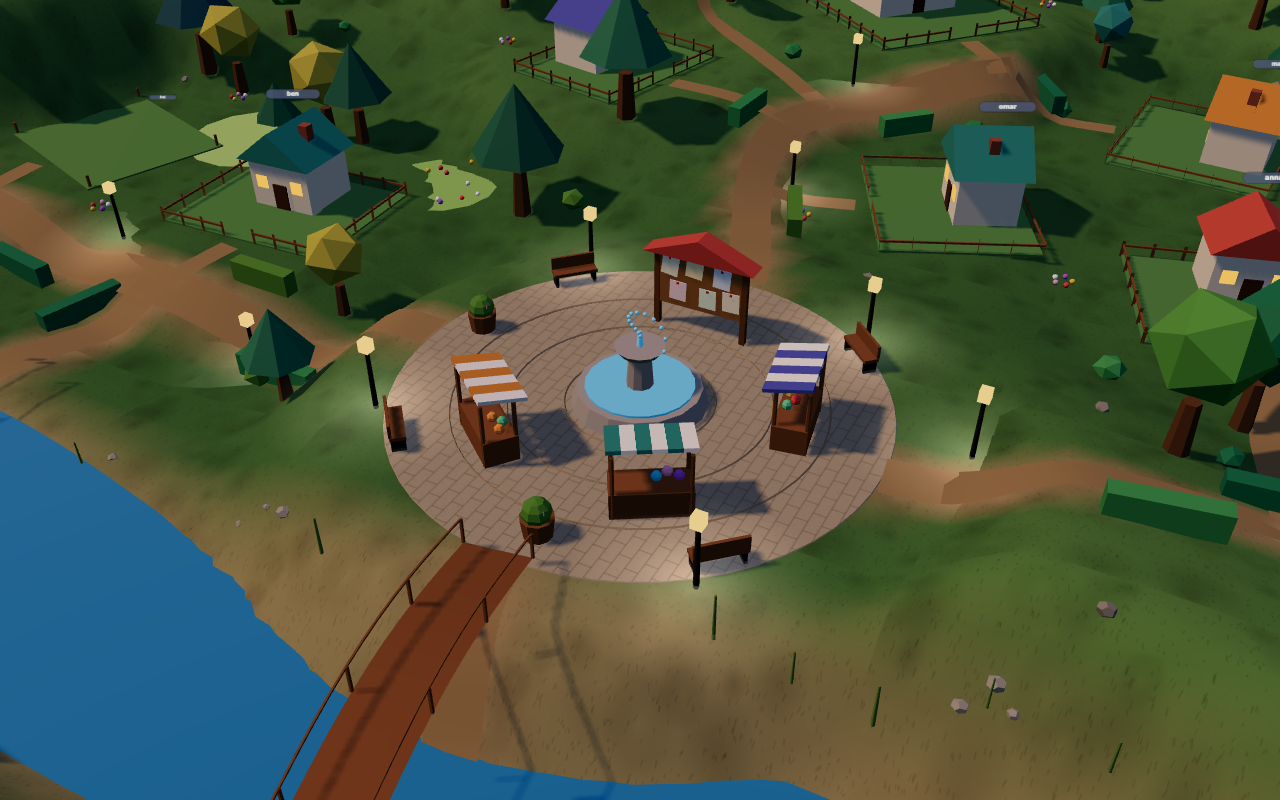
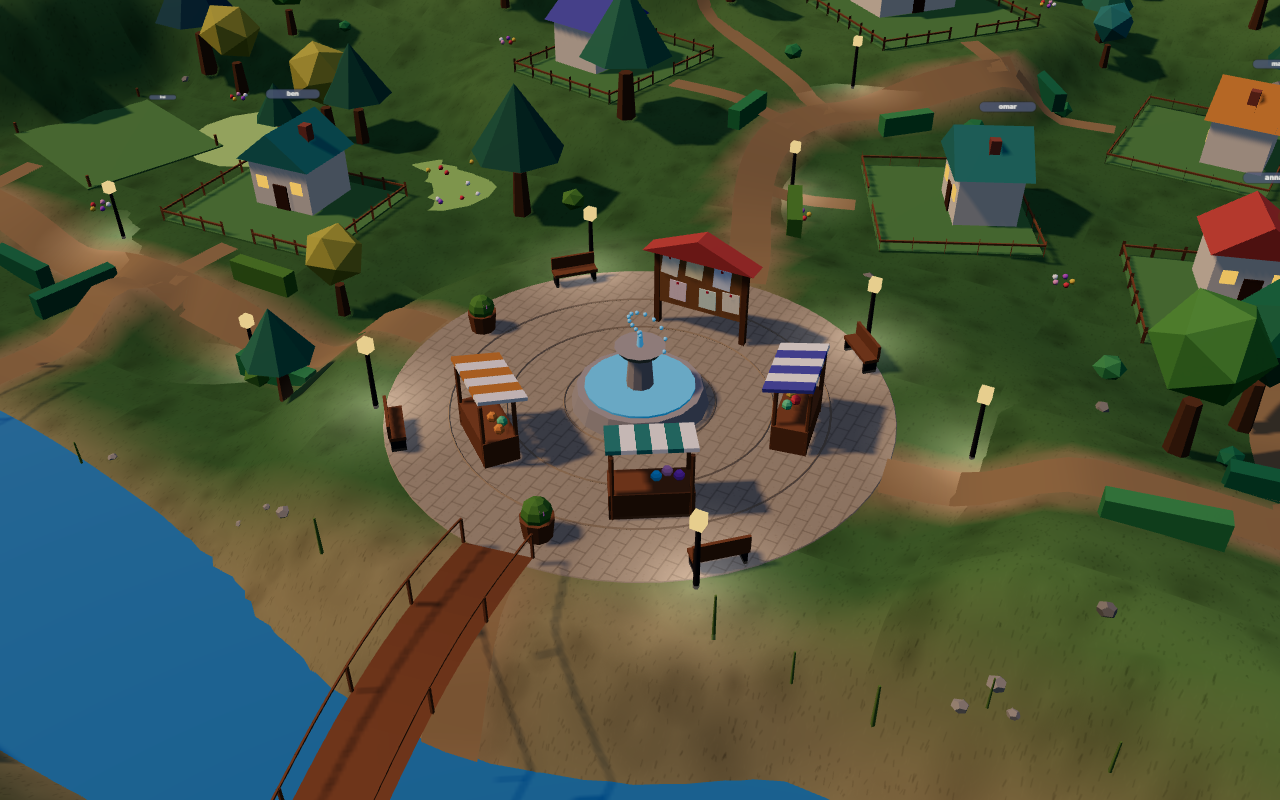
L.3 Wegglättung, Kirschblüten
Gelände entlang der Wege geglättet, Ufer ausgenommen. Runde Bäume in Obstgarten-Flecken blühen weiß bis rosa.

diff --git a/web/src/world/terrain.ts b/web/src/world/terrain.ts
@@ -26,6 +26,9 @@ export class Terrain {
   /** Levelled areas (plaza, plots). Added while a layout is being built. */
   readonly flats: Flat[] = [];
 
+  /** Path points with their smoothed target height (see setPaths), bucketed on a 4 m grid. */
+  private pathGrid = new Map<string, Array<{ x: number; z: number; h: number }>>();
+
   constructor(
     private readonly hillPhase: number,
     /** River centre line of this map. */
@@ -63,9 +66,61 @@ export class Terrain {
     return lerp(h, Math.min(h, -0.9), smooth(7.5, 2.5, d)) - smooth(3.5, 0, d) * 0.4;
   }
 
+  /**
+   * Gives the lanes a smooth bed: the height along each lane is averaged over about 8 m, and the
+   * ground next to the lane is drawn towards it (LOOK §4, review befund 5). Stretches close to the
+   * river are left out, so bridges and banks keep their own shape.
+   */
+  setPaths(samples: Point2[]): void {
+    const raw = samples.map((p) => this.carvedHeight(p.x, p.z));
+    samples.forEach((p, i) => {
+      if (this.riverDistance(p.x, p.z) < 6) return;
+      let sum = 0;
+      let n = 0;
+      for (let k = Math.max(0, i - 3); k <= Math.min(raw.length - 1, i + 3); k++) {
+        sum += raw[k];
+        n++;
+      }
+      const key = this.cellKey(p.x, p.z);
+      const bucket = this.pathGrid.get(key) ?? [];
+      bucket.push({ x: p.x, z: p.z, h: sum / n });
+      this.pathGrid.set(key, bucket);
+    });
+  }
+
+  private cellKey(x: number, z: number): string {
+    return `${Math.floor(x / 4)},${Math.floor(z / 4)}`;
+  }
+
+  /**
+   * Pulls the height towards the path within 2.6 m. The target is a weighted mean of the path points
+   * nearby, so it changes smoothly and there is no step between two samples.
+   */
+  private pathBlend(x: number, z: number, v: number): number {
+    const cx = Math.floor(x / 4);
+    const cz = Math.floor(z / 4);
+    let best = Infinity;
+    let sumW = 0;
+    let sumWh = 0;
+    for (let i = -1; i <= 1; i++) {
+      for (let j = -1; j <= 1; j++) {
+        for (const p of this.pathGrid.get(`${cx + i},${cz + j}`) ?? []) {
+          const d = Math.hypot(p.x - x, p.z - z);
+          if (d < best) best = d;
+          if (d >= 2.6) continue;
+          const w = (2.6 - d) ** 2;
+          sumW += w;
+          sumWh += w * p.h;
+        }
+      }
+    }
+    if (sumW === 0) return v;
+    return lerp(v, sumWh / sumW, smooth(2.6, 1.0, best));
+  }
+
   /** Height at (x, z) including levelled areas. */
   groundHeight(x: number, z: number): number {
-    let v = this.carvedHeight(x, z);
+    let v = this.pathBlend(x, z, this.carvedHeight(x, z));
     for (const f of this.flats) {
       const d = Math.hypot(x - f.x, z - f.z);
       if (d < f.r + 4) v = lerp(v, f.h, smooth(f.r + 4, f.r, d));

diff --git a/web/src/render/nature.ts b/web/src/render/nature.ts
@@ -24,7 +24,8 @@ const TRUNK = '#6b4a2f';
 const CROWNS = ['#2f7d5b', '#5fa04c', '#c9a23e', '#3f8f8a', '#8aa84a', '#d4893a', '#4d9a5d', '#b9b24a'];
 // pines stay dark and cool
 const PINES = ['#2c6e57', '#2f6e5a', '#3a7f66', '#2a5f6b'];
-const BLOSSOM = '#d98cc5';
+// cherry blossom: white to pink, some in orchard patches and some single trees (LOOK §8)
+const BLOSSOMS = ['#f4a6c8', '#f7c6d9', '#ef8fb5', '#fbd9e6', '#ffffff'];
 
 /** Soft radial gradient for the light pools on the ground (LOOK §7). */
 function poolTexture(): THREE.CanvasTexture {
@@ -82,9 +83,11 @@ function treeGroup(trees: Tree[], kind: Tree['kind']): THREE.Group {
   const palette = kind === 'pine' ? PINES : CROWNS;
   const colour = (i: number): THREE.Color => {
     const t = list[i];
-    // a fixed colour per tree; about one in nine is a rare pink blossom tree (LOOK §8)
+    // a fixed colour per tree; round trees in the orchard patches and some single ones bloom
     const h = Math.abs(Math.floor(t.x * 7 + t.z * 3));
-    return new THREE.Color(h % 9 === 0 ? BLOSSOM : palette[h % palette.length]);
+    const orchard = Math.sin(t.x * 0.045 + 1.3) * Math.cos(t.z * 0.05 - 0.7) > 0.4;
+    const bloom = kind === 'round' && (orchard || h % 13 === 0);
+    return new THREE.Color(bloom ? BLOSSOMS[h % BLOSSOMS.length] : palette[h % palette.length]);
   };
   if (kind === 'pine') {
     const crown = new THREE.ConeGeometry(1.2, 1.8, 7);

diff --git a/web/tests/world/paths.test.ts b/web/tests/world/paths.test.ts
@@ -1,0 +1,30 @@
+import { describe, it, expect } from 'vitest';
+import { buildLayout } from '../../src/world/layout';
+import { MAP_IDS } from '../../src/world/maps';
+
+// LOOK §4, review befund 5: the ground next to a path is level with the path, so no path floats or sinks.
+for (const mapId of MAP_IDS) {
+  describe(`paths on ${mapId}`, () => {
+    const layout = buildLayout(11, 34, mapId);
+    const s = layout.laneSamples;
+
+    it('the ground 0.8 m beside a path is level with the path', () => {
+      let checked = 0;
+      for (let i = 2; i < s.length - 2; i += 7) {
+        const p = s[i];
+        if (layout.terrain.riverDistance(p.x, p.z) < 7) continue;
+        // levelled plots ramp into the slope over 4 m; that is not the path's doing
+        if (layout.plots.some((q) => Math.hypot(q.x - p.x, q.z - p.z) < q.rad + 6)) continue;
+        const tx = s[i + 1].x - s[i - 1].x;
+        const tz = s[i + 1].z - s[i - 1].z;
+        const l = Math.hypot(tx, tz) || 1;
+        const sx = p.x - (tz / l) * 0.8;
+        const sz = p.z + (tx / l) * 0.8;
+        const diff = Math.abs(layout.terrain.groundHeight(sx, sz) - layout.terrain.groundHeight(p.x, p.z));
+        expect(diff).toBeLessThan(0.6);
+        checked++;
+      }
+      expect(checked).toBeGreaterThan(4);
+    });
+  });
+}

diff --git a/web/src/world/layout.ts b/web/src/world/layout.ts
@@ -342,6 +342,7 @@ export function buildLayout(layoutSeed: number, plotCount: number, mapId = 'tal'
     c.getSpacedPoints(Math.ceil(c.getLength() / 1.2)).forEach((v) => laneSamples.push({ x: v.x, z: v.z }));
   }
 
+  terrain.setPaths(laneSamples);
   const plots = scatterPlots(rng, plotCount, terrain, laneSamples, plaza);
   for (const p of plots) orientPlot(p, rng, laneSamples);
   const bridges = findBridges(terrain, laneCurves);

diff --git a/docs/PLAN.md b/docs/PLAN.md
@@ -229,3 +229,5 @@ Ziel: Schüler kaufen Deko und gestalten ihr Grundstück; Mitschüler sehen es.
 | 17.10.2026 | Licht nachgezogen | Grastextur war grau (`#e4e4e4`) und hat alle Wiesen um rund ein Fünftel abgedunkelt. Jetzt fast weiß, die Farbe kommt aus den Vertex-Farben (LOOK §4). Rauheit 0,88 nach LOOK. Die Sonne bekommt die in LOOK §3 festgelegten Schatten-Bias-Werte und die Belichtung 1,05 fehlte. Galerie und Dorfansicht gleich. Offen: Himmel und ferne Hügel etwas heller, wie im Soll-Bild |
 | 17.10.2026 | L.3 Ufersteine | Graue Steine an beiden Ufern, 4,6–5,8 m von der Flussmitte, halb eingesunken (`placeShoreStones` in `world/scatter.ts`, Instancing in `render/nature.ts`). Vitest: Steine nur am Ufer, nie im Wasser (258 Tests grün). Offen: Gelände unter den Wegen glätten (braucht Wegdaten im Terrain), Uferschnitt an steilen Hängen |
 | 17.10.2026 | Baumfarben | Laubbäume mit Ocker, Orange, Gelbgrün und Blaugrün neben den Grüntönen; Nadelbäume bleiben kühl dunkel (`render/nature.ts`, Paletten `CROWNS` und `PINES`). Galerie geprüft. Offen: die Wiesen selbst wirken noch sehr grün |
+| 17.10.2026 | L.3 Wegglättung | Das Gelände unter den Wegen wird geglättet: die Höhe entlang jedes Weges wird über etwa 8 m gemittelt, das Gelände bis 2,6 m daneben zieht dorthin (`setPaths`/`pathBlend` in `world/terrain.ts`, aufgerufen in `world/layout.ts`). Ufer nahe am Fluss ausgenommen. Vitest `tests/world/paths.test.ts`: Gelände 0,8 m neben dem Weg max. 0,6 m Höhenunterschied (Toleranz nach Messung angehoben, siehe Hinweis). 261 Tests grün |
+| 17.10.2026 | Kirschblüten | Runde Bäume in Obstgarten-Flecken und einzelne Bäume blühen weiß bis rosa (`BLOSSOMS` in `render/nature.ts`). Nadelbäume bleiben grün. Offen: Blüten kräftiger, mehr Flecken |
